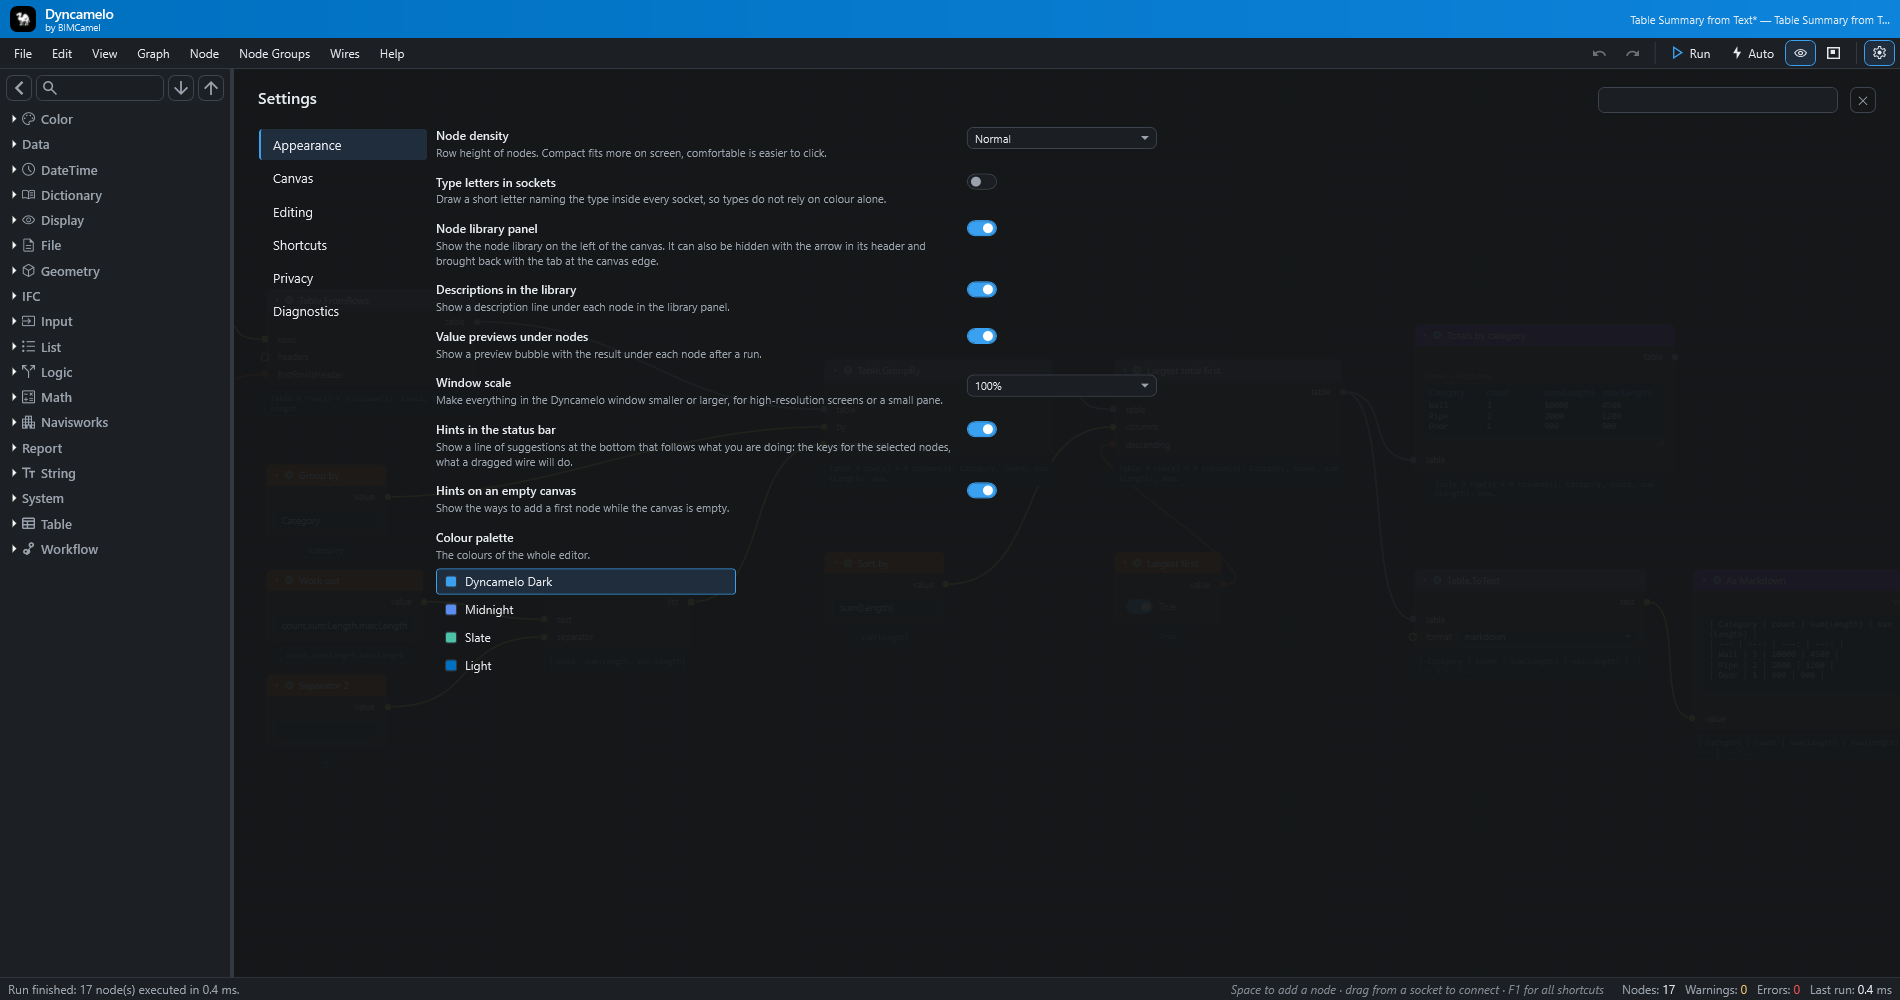
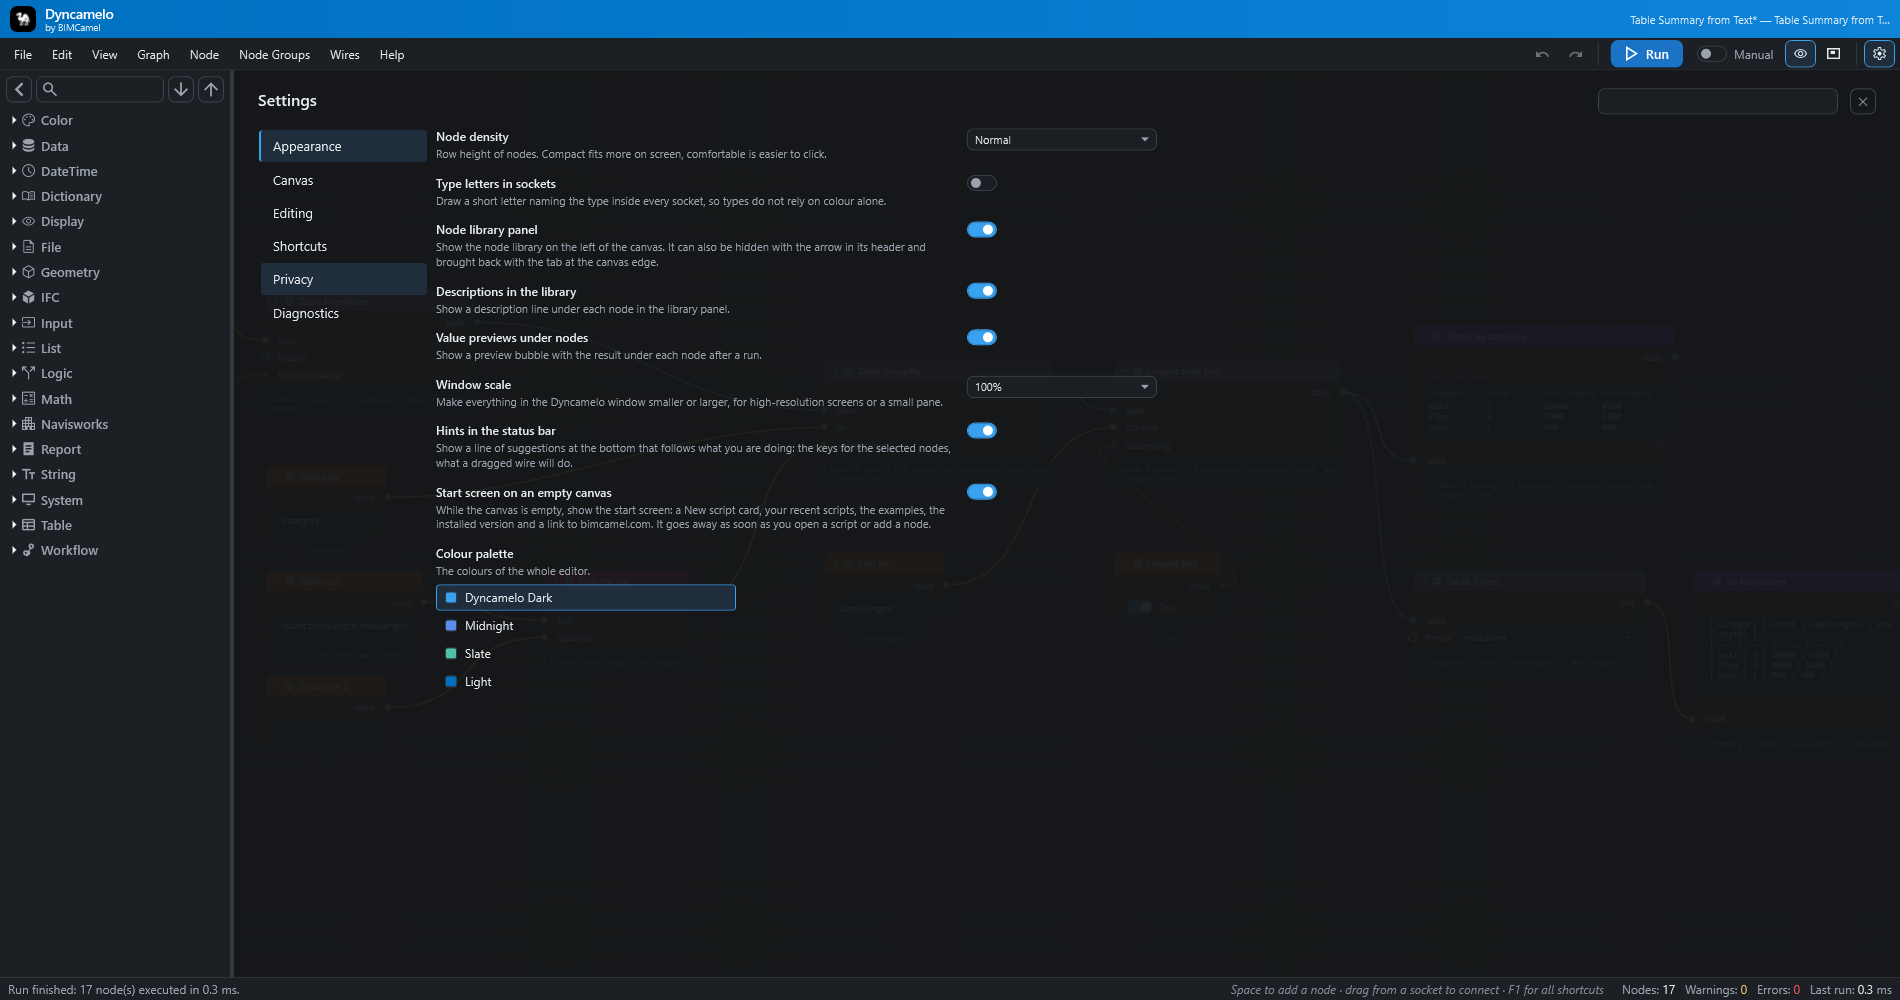
Screenshots: new start screen (edition chip, greyed store button) and the editor with the emphasised Run button and Auto switch
Claude-Session: https://claude.ai/code/session_01XQ9KUEuK4kDs782fquwkYR

diff --git a/README.md b/README.md
@@ -33,7 +33,7 @@ Dyncamelo brings the visual-programming workflow that Dynamo made famous in Revi
 
 *The editor with the "Table Summary from Text" sample after a run: nodes, wires, the values under each node and a Watch Table. The same editor has a [light theme](docs/images/editor-screenshot-light.png). It docks inside Navisworks as a pane.*
 
-More pictures: [light theme](docs/images/editor-screenshot-light.png) · [quick node search](docs/images/quick-search.png) · [command palette](docs/images/command-palette.png) · [keyboard and mouse sheet](docs/images/shortcuts.png) · [settings](docs/images/settings.png) · [Script Player](docs/images/player.png)
+More pictures: [start screen](docs/images/editor-start.png) · [light theme](docs/images/editor-screenshot-light.png) · [quick node search](docs/images/quick-search.png) · [command palette](docs/images/command-palette.png) · [keyboard and mouse sheet](docs/images/shortcuts.png) · [settings](docs/images/settings.png) · [Script Player](docs/images/player.png)
 
 ---
 
